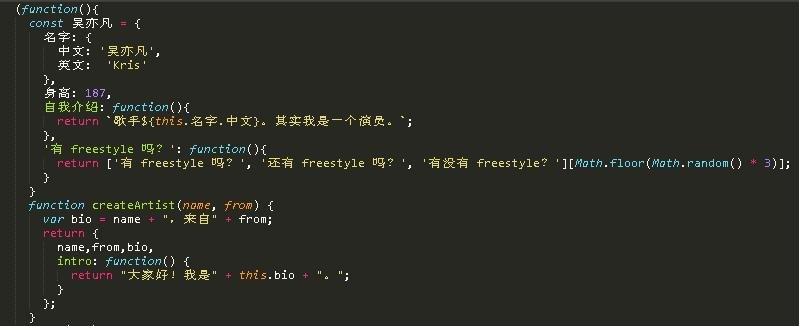
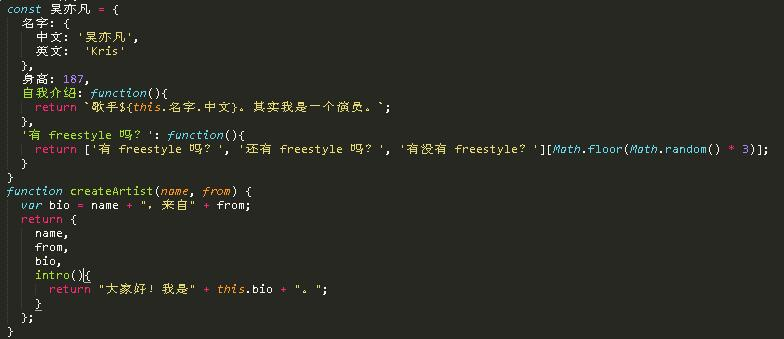
modify task15 simplify createArtist function

diff --git a/MyTask_15/js/js.js b/MyTask_15/js/js.js
@@ -1,0 +1,121 @@
+(function(){
+  function bigShowPic(){
+    var pics = document.querySelectorAll('div > img');
+    for (var i = pics.length - 1; i >= 0; i--) {
+      (function(i){
+        pics[i].addEventListener('click',function(){
+          var tdiv = document.createElement('section');
+          tdiv.classList.add('bg-gray');
+          tdiv.innerHTML = '<img src="images/code-pic'+(Number(i)+1)+'.jpg">';
+          tdiv.addEventListener('click',function(e){
+            if (e.target.nodeName === 'SECTION') {
+              document.body.removeChild(this);
+            }
+          })
+          document.body.appendChild(tdiv);
+        })
+      })(i)
+    }
+  }
+  function findOutEven(){
+    var n = 10 + Math.ceil(Math.random() * 90);
+    var even = [];
+    for (var i = n; i >= 0; i--) {
+      if (i % 2 === 0) {
+        even.push(i);
+      }
+    }
+    return even;
+  }
+  function findOutPrimeNum(){
+    var n = 10 + Math.ceil(Math.random() * 90);
+    var primenum = [];
+    for (var i = n; i >= 2; i--) {
+      var jug = true;
+      var j = Math.floor(Math.sqrt(i));
+      for (j; j >=2; j--) {
+        if (i % j === 0) {
+          jug=false;break;
+        }
+      }
+      if (jug) {
+        primenum.push(i);
+      }
+    }
+    return primenum;
+  }
+  /**
+   * 给定长方形的宽和高，计算其面积并返回。
+   * 若 宽 === 高，则只需要传入宽的值。
+   * @param {number} width 宽
+   * @param {number} height 高
+   * @return {number}
+   */
+  function area(width, height=width) {
+    if (arguments.length === 0) {
+      return Math.floor(Math.pow((Math.random()*90+10),2));
+    }
+    return width * height;
+  }
+  /**
+   * 输入任意数目的数字参数，返回其中最大的数字。
+   * @return {number}
+   */
+  function max() {
+    var maxnum = arguments[0];
+    for (var i = arguments.length - 1; i >= 0; i--) {
+      if (arguments[i] > maxnum) {
+        maxnum = arguments[i];
+      }
+    }
+    return maxnum;
+  }
+  /**
+   * 给定数字 x，返回 x 自乘 n 次的结果。
+   * @param {number} x
+   * @param {number} n - 正整数
+   * @return {number}
+   */
+  function pow(x, n) {
+    var result = 1;
+    if (n < 0) {
+      for (var i = Math.abs(n); i >= 1; i--) {
+        result *= x;
+      }
+      return 1/result;
+    }
+    else if (n === 0) {
+      return result;
+    }else {
+      for (var i = n; i >= 1; i--) {
+        result *= x;
+      }
+      return result;
+      }
+  }
+  /**
+   * 计算在某段文本 content 中出现某个特定字符串 search 的次数。
+   * @param {string} content - 被搜索的文本内容
+   * @param {string} search - 查找的字符串
+   * @return {number} 字符串 search 在 content 中出现的次数，没有则返回 0。
+   */
+  function appearances(content, search) {
+    var value = new RegExp(search,'gi');
+    if (content.match(value) === null) {
+      return 0;
+    }
+    return content.match(value).length;
+  }
+  function actAllFunctions(){
+    bigShowPic();
+    document.write(findOutEven()+'<br><br>');
+    document.write(findOutPrimeNum()+'<br><br>');
+    document.write('宽12高10的长方形面积为：'+area(12,10)+'<br><br>');
+    document.write('宽12的长方形面积为：'+area(12)+'<br><br>');
+    document.write('未设宽高的长方形面积为：'+area()+'<br><br>');
+    document.write('随机数字17,19,80,81,33,27中最大值为：'+max(17,19,80,81,33,27)+'<br><br>');
+    document.write('3的-4次方是：'+pow(3,-4)+'<br><br>');
+    document.write('平平仄仄平平仄，仄仄平平仄仄平 中有仄的个数：'+appearances('平平仄仄平平仄，仄仄平平仄仄平','仄')+'<br><br>');
+  }
+  actAllFunctions();
+})()

diff --git a/MyTask_15/css/css.css b/MyTask_15/css/css.css
@@ -1,0 +1,68 @@
+* {
+  box-sizing: border-box;
+  list-style: none;
+  margin: 0;
+  padding: 0;
+}
+html {
+  font-size: 20px;
+}
+body {
+  background-color: #f7f7f7;
+  overflow-y: hidden;
+}
+a {
+  animation: rotating 10s linear infinite;
+  background-color: rgba(0,255,255,.9);
+  border-radius: 40%;
+  color: #f0f;
+  display: block;
+  height: 10rem;
+  line-height: 10rem;
+  position: absolute;
+  right: 20%;
+  top: 20%;
+  text-decoration: none;
+  transition: .3s;
+  width: 10rem;
+}
+a::after {
+  animation: rotating-reverse 10s linear infinite;
+  content: 'Jsbin';
+  display: block;
+  font-size: 3rem;
+  text-align: center;
+}
+a:hover {
+  background-color: rgba(0,255,255,.7);
+  text-shadow: 0 0 .3rem #f0f;
+}
+@keyframes rotating {
+  0% {transform: rotate(0);}
+  100% {transform: rotate(360deg);}
+}
+@keyframes rotating-reverse {
+  0% {transform: rotate(0);}
+  100% {transform: rotate(-360deg);}
+}
+div > img {
+  display: inline-block;
+  height: 5rem;
+  overflow: hidden;
+  position: relative;
+  width: 5rem;
+}
+div > img:hover {
+  cursor: pointer;
+}
+.bg-gray {
+  align-items: center;
+  background-color: rgba(0,0,0,.5);
+  display: flex;
+  height: 100vh;
+  justify-content: center;
+  left: 0;
+  position: fixed;
+  top: 0;
+  width: 100vw;
+}

diff --git a/MyTask_15/index.html b/MyTask_15/index.html
@@ -1,14 +1,14 @@
 <!DOCTYPE html>
 <html lang="zh-CN">
 <head>
-  <title>虐狗的Object</title>
+  <title>Js-循环-函数-数组</title>
   <meta charset="utf-8">
   <meta name="viewport" content="width=device-width, initial-scale=1.0">
   <link rel="shortcut icon" href="favicon.ico" type=”image/x-icon”/>
   <link rel="stylesheet" type="text/css" href="css/css.css">
 </head>
 <body>
-  <a href="http://jsbin.com/powazibivi/edit?js,output" target="_blank"></a>
+  <a href="" target="_blank"></a>
   <div>
     <img src="images/code-pic1.jpg" alt="code1" title="点我放大~">
     <img src="images/code-pic2.jpg" alt="code2" title="点我放大~">

diff --git a/MyTask_17/js/js.js b/MyTask_17/js/js.js
@@ -15,8 +15,10 @@
   function createArtist(name, from) {
     var bio = name + "，来自" + from;
     return {
-      name,from,bio,      
-      intro: function() {
+      name,
+      from,
+      bio,      
+      intro(){
         return "大家好！我是" + this.bio + "。";
       }
     };
